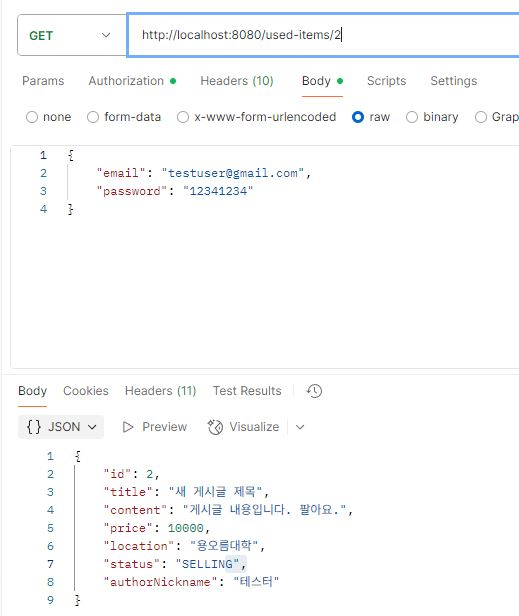
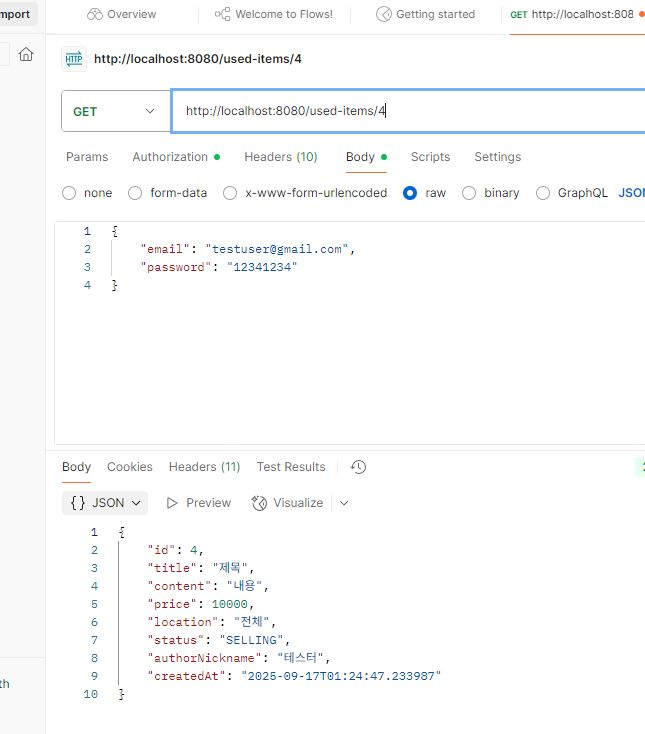
분실물추가

diff --git a/src/main/java/yongin/Yongnuri/_Campus/servise/LostItemService.java b/src/main/java/yongin/Yongnuri/_Campus/servise/LostItemService.java
@@ -1,0 +1,129 @@
+package yongin.Yongnuri._Campus.servise;
+
+import java.util.List;
+import java.util.stream.Collectors;
+import java.util.stream.Stream;
+
+import org.springframework.data.domain.Sort;
+import org.springframework.security.access.AccessDeniedException;
+import org.springframework.stereotype.Service;
+import org.springframework.transaction.annotation.Transactional;
+
+import jakarta.persistence.EntityNotFoundException;
+import lombok.RequiredArgsConstructor;
+import yongin.Yongnuri._Campus.domain.Image;
+import yongin.Yongnuri._Campus.domain.LostItem;
+import yongin.Yongnuri._Campus.domain.User;
+import yongin.Yongnuri._Campus.dto.lostitem.LostItemCreateRequestDto;
+import yongin.Yongnuri._Campus.dto.lostitem.LostItemResponseDto;
+import yongin.Yongnuri._Campus.dto.lostitem.LostItemUpdateRequestDto;
+import yongin.Yongnuri._Campus.repository.ImageRepository;
+import yongin.Yongnuri._Campus.repository.LostItemRepository;
+import yongin.Yongnuri._Campus.repository.UserRepository;
+
+@Service
+@RequiredArgsConstructor
+public class LostItemService {
+
+    private final LostItemRepository lostItemRepository;
+    private final BlockService blockService; 
+    private final UserRepository userRepository;
+    private final ImageRepository imageRepository;
+
+    private User getUserByEmail(String email) {
+        return userRepository.findByEmail(email)
+                .orElseThrow(() -> new EntityNotFoundException("사용자 정보를 찾을 수 없습니다."));
+    }
+
+    /*
+     분실물 게시글 목록 조회 
+    */
+    public List<LostItemResponseDto> getLostItems(String email, String type) {
+        Long currentUserId = getUserByEmail(email).getId();
+        List<Long> blockedUserIds = blockService.getBlockedUserIds(currentUserId);
+        List<LostItem> allItems = lostItemRepository.findAll(Sort.by(Sort.Direction.DESC, "id")); 
+        Stream<LostItem> stream = allItems.stream()
+                .filter(item -> !blockedUserIds.contains(item.getUser().getId()));
+        if (!"전체".equals(type)) {
+            stream = stream.filter(item -> type.equals(item.getLocation()));
+        }
+
+        return stream
+                .map(LostItemResponseDto::new)
+                .collect(Collectors.toList());
+    }
+    //상세조회
+    public LostItemResponseDto getLostItemDetail(String email, Long postId) {
+        Long currentUserId = getUserByEmail(email).getId();
+        List<Long> blockedUserIds = blockService.getBlockedUserIds(currentUserId);
+        LostItem item = lostItemRepository.findById(postId)
+                .orElseThrow(() -> new EntityNotFoundException("404: 게시글 없음"));
+        Long authorId = item.getUser().getId();
+        if (blockedUserIds.contains(authorId)) {
+            throw new EntityNotFoundException("404: 게시글 없음 (차단됨)");
+        }
+        return new LostItemResponseDto(item);
+    }
+    /* 
+     분실물 게시글 작성
+     */
+    @Transactional
+    public Long createLostItem(String email, LostItemCreateRequestDto requestDto) {
+        User currentUser = getUserByEmail(email);
+        LostItem newItem = requestDto.toEntity(currentUser);
+        LostItem savedItem = lostItemRepository.save(newItem);
+        Long newPostId = savedItem.getId();
+
+        List<String> imageUrls = requestDto.getImageUrls();
+        if (imageUrls != null && !imageUrls.isEmpty()) {
+            int sequence = 1;
+            for (String url : imageUrls) {
+                Image image = Image.builder()
+                        .type("LOST_ITEM") 
+                        .typeId(newPostId)
+                        .imageUrl(url)
+                        .sequence(sequence++)
+                        .build();
+                imageRepository.save(image);
+            }
+        }
+        return newPostId;
+    }
+     /*
+     분실물 게시글 수정
+     */
+    @Transactional
+    public Long updateLostItem(String email, Long postId, LostItemUpdateRequestDto requestDto) {
+    
+        User currentUser = getUserByEmail(email);
+        LostItem item = lostItemRepository.findById(postId)
+                .orElseThrow(() -> new EntityNotFoundException("404: 게시글 없음"));
+
+        if (!item.getUser().getId().equals(currentUser.getId())) {
+            throw new AccessDeniedException("403: 이 게시글을 수정할 권한이 없습니다.");
+        }
+        if (requestDto.getImageUrls() != null) {
+            imageRepository.deleteAllByTypeAndTypeId("LOST_ITEM", postId);
+
+            List<String> imageUrls = requestDto.getImageUrls();
+            int sequence = 1;
+            for (String url : imageUrls) {
+                Image image = Image.builder()
+                        .type("LOST_ITEM")
+                        .typeId(postId)
+                        .imageUrl(url)
+                        .sequence(sequence++)
+                        .build();
+                imageRepository.save(image);
+            }
+        }
+
+        if (requestDto.getTitle() != null) item.setTitle(requestDto.getTitle());
+        if (requestDto.getContent() != null) item.setContent(requestDto.getContent());
+        if (requestDto.getLocation() != null) item.setLocation(requestDto.getLocation());
+        if (requestDto.getPurpose() != null) item.setPurpose(LostItem.ItemPurpose.valueOf(requestDto.getPurpose().toUpperCase()));
+        if (requestDto.getStatus() != null) item.setStatus(LostItem.ItemStatus.valueOf(requestDto.getStatus().toUpperCase()));
+        
+        return item.getId();
+    }
+}

diff --git a/src/main/java/yongin/Yongnuri/_Campus/controller/LostItemController.java b/src/main/java/yongin/Yongnuri/_Campus/controller/LostItemController.java
@@ -1,0 +1,77 @@
+package yongin.Yongnuri._Campus.controller;
+
+import lombok.RequiredArgsConstructor;
+import org.springframework.http.ResponseEntity;
+import org.springframework.security.core.annotation.AuthenticationPrincipal;
+
+import yongin.Yongnuri._Campus.dto.lostitem.LostItemResponseDto;
+import yongin.Yongnuri._Campus.servise.LostItemService;
+import java.util.List;
+import java.util.Map; 
+import jakarta.validation.Valid; 
+import org.springframework.web.bind.annotation.*; 
+import yongin.Yongnuri._Campus.dto.lostitem.LostItemCreateRequestDto;
+import yongin.Yongnuri._Campus.dto.lostitem.LostItemUpdateRequestDto; 
+
+
+@RestController
+@RequiredArgsConstructor
+@RequestMapping("/lost-items")
+public class LostItemController {
+
+    private final LostItemService lostItemService;
+
+    /*
+     GET /lost-items (분실물 목록 조회)
+    */
+    @GetMapping
+    public ResponseEntity<?> getLostItems(
+            @RequestParam(name = "type", defaultValue = "전체") String type,
+            @AuthenticationPrincipal String email
+    ) {
+        List<LostItemResponseDto> items = lostItemService.getLostItems(email, type);
+        return ResponseEntity.ok(items);
+    }
+    /*
+     * GET /lost-items/{postId} (분실물 상세 조회)
+     */
+    @GetMapping("/{postId}")
+    public ResponseEntity<?> getLostItemDetail(
+            @PathVariable Long postId,
+            @AuthenticationPrincipal String email
+    ) {
+        LostItemResponseDto item = lostItemService.getLostItemDetail(email, postId);
+        return ResponseEntity.ok(item); 
+    }
+    /*
+      POST /lost-items (분실물 게시글 작성)
+     */
+    @PostMapping
+    public ResponseEntity<?> createLostItem(
+            @AuthenticationPrincipal String email,
+            @Valid @RequestBody LostItemCreateRequestDto requestDto
+    ) {
+        Long newPostId = lostItemService.createLostItem(email, requestDto);
+        return ResponseEntity.ok(Map.of(
+            "message", "게시글 작성 성공",
+            "postId", newPostId
+        ));
+    }
+    /*
+      PATCH /lost-items/{postId} (분실물 게시글 수정)
+     */
+    @PatchMapping("/{postId}")
+    public ResponseEntity<?> updateLostItem(
+            @PathVariable Long postId,
+            @AuthenticationPrincipal String email,
+            @RequestBody LostItemUpdateRequestDto requestDto
+    ) {
+        Long updatedPostId = lostItemService.updateLostItem(email, postId, requestDto);
+
+
+        return ResponseEntity.ok(Map.of(
+            "message", "게시글 수정 성공",
+            "postId", updatedPostId
+        ));
+    }
+}

diff --git a/src/main/java/yongin/Yongnuri/_Campus/domain/LostItem.java b/src/main/java/yongin/Yongnuri/_Campus/domain/LostItem.java
@@ -1,0 +1,56 @@
+package yongin.Yongnuri._Campus.domain;
+import jakarta.persistence.Column;
+import jakarta.persistence.Entity;
+import jakarta.persistence.EnumType;
+import jakarta.persistence.Enumerated;
+import jakarta.persistence.FetchType;
+import jakarta.persistence.GeneratedValue;
+import jakarta.persistence.GenerationType;
+import jakarta.persistence.Id;
+import jakarta.persistence.JoinColumn;
+import jakarta.persistence.ManyToOne;
+import lombok.AllArgsConstructor;
+import lombok.Builder;
+import lombok.Getter;
+import lombok.NoArgsConstructor;
+import lombok.Setter;
+
+@Entity
+@Getter
+@Setter // 간단한 예시를 위해 Setter 사용
+@Builder 
+@NoArgsConstructor 
+@AllArgsConstructor 
+public class LostItem {
+
+    @Id
+    @GeneratedValue(strategy = GenerationType.IDENTITY)
+    private Long id;
+
+    @ManyToOne(fetch = FetchType.LAZY)
+    @JoinColumn(name = "user_id")
+    private User user; // 게시자
+
+    @Enumerated(EnumType.STRING)
+    private ItemPurpose purpose; // 게시 목적 (LOST, FOUND)
+
+    @Enumerated(EnumType.STRING)
+    private ItemStatus status; // 처리 상태 (REPORTED, RETURNED)
+
+    private String title;
+
+    @Column(columnDefinition = "TEXT")
+    private String content;
+
+    private String location;
+
+    // created_at, updated_at 등 타임스탬프 필드 (BaseEntity 등으로 분리하는 것이 좋음)
+
+    public enum ItemPurpose {
+        LOST, FOUND
+    }
+
+    public enum ItemStatus {
+        REPORTED, RETURNED
+    }
+}

diff --git a/src/main/java/yongin/Yongnuri/_Campus/dto/lostitem/LostItemCreateRequestDto.java b/src/main/java/yongin/Yongnuri/_Campus/dto/lostitem/LostItemCreateRequestDto.java
@@ -1,0 +1,41 @@
+package yongin.Yongnuri._Campus.dto.lostitem;
+
+import jakarta.validation.constraints.NotBlank;
+import jakarta.validation.constraints.NotNull;
+import lombok.Getter;
+import yongin.Yongnuri._Campus.domain.LostItem;
+import yongin.Yongnuri._Campus.domain.User;
+import java.util.List;
+
+@Getter
+public class LostItemCreateRequestDto {
+
+    @NotBlank(message = "제목은 필수입니다.")
+    private String title;
+
+    @NotBlank(message = "게시 목적(분실/습득)은 필수입니다.")
+    private String purpose; 
+
+    @NotBlank(message = "내용은 필수입니다.")
+    private String content;
+
+    @NotBlank(message = "게시글 상태는 필수입니다.")
+    private String status; 
+
+    @NotBlank(message = "장소는 필수입니다.")
+    private String location;
+
+  
+    private List<String> imageUrls;
+
+    public LostItem toEntity(User user) {
+        return LostItem.builder()
+                .user(user) 
+                .title(this.title)
+                .content(this.content)
+                .location(this.location)
+                .purpose(LostItem.ItemPurpose.valueOf(this.purpose.toUpperCase()))
+                .status(LostItem.ItemStatus.valueOf(this.status.toUpperCase()))
+                .build();
+    }
+}

diff --git a/src/main/java/yongin/Yongnuri/_Campus/dto/useditem/UsedItemResponseDto.java b/src/main/java/yongin/Yongnuri/_Campus/dto/useditem/UsedItemResponseDto.java
@@ -1,5 +1,7 @@
 package yongin.Yongnuri._Campus.dto.useditem;
 
+import java.time.LocalDateTime;
+
 import lombok.Getter;
 import yongin.Yongnuri._Campus.domain.UsedItem;
 import yongin.Yongnuri._Campus.domain.User;
@@ -14,6 +16,7 @@ public class UsedItemResponseDto {
     private String location;
     private String status;
     private String authorNickname; 
+    private final LocalDateTime createdAt;
 
     // 1. 리스트 조회용 생성자 
     // (중고거래 목록 조회 사용)
@@ -25,6 +28,7 @@ public class UsedItemResponseDto {
         this.status = item.getStatus();
         this.content = null; 
         this.authorNickname = null; 
+        this.createdAt = item.getCreatedAt();
     }
 
     // 2. 상세 조회용 생성자 
@@ -37,5 +41,6 @@ public class UsedItemResponseDto {
         this.location = item.getLocation();
         this.status = item.getStatus();
         this.authorNickname = (author != null) ? author.getNickName() : "(알 수 없음)";
+        this.createdAt = item.getCreatedAt(); //
     }
 }

diff --git a/src/main/java/yongin/Yongnuri/_Campus/dto/lostitem/LostItemResponseDto.java b/src/main/java/yongin/Yongnuri/_Campus/dto/lostitem/LostItemResponseDto.java
@@ -1,0 +1,34 @@
+package yongin.Yongnuri._Campus.dto.lostitem;
+
+import java.time.LocalDateTime;
+
+import lombok.Getter;
+import yongin.Yongnuri._Campus.domain.LostItem;
+
+@Getter
+public class LostItemResponseDto {
+    private final Long id;
+    private final String title;
+    private final String location;
+    private final String purpose; 
+    private final String status;  
+    private final String content;
+    private final Boolean isImages;
+    private final LocalDateTime createdAt;
+    private final String authorNickname; 
+
+    
+    public LostItemResponseDto(LostItem item) {
+        this.id = item.getId();
+        this.title = item.getTitle();
+        this.content = item.getContent(); 
+        this.location = item.getLocation();
+        this.purpose = item.getPurpose().name(); 
+        this.status = item.getStatus().name();
+        
+        // 임시처리
+        this.isImages = false; 
+        this.createdAt = null; 
+        this.authorNickname = item.getUser().getNickName();
+    }
+}

diff --git a/src/main/java/yongin/Yongnuri/_Campus/repository/LostItemRepository.java b/src/main/java/yongin/Yongnuri/_Campus/repository/LostItemRepository.java
@@ -1,0 +1,8 @@
+package yongin.Yongnuri._Campus.repository;
+
+import org.springframework.data.jpa.repository.JpaRepository;
+import org.springframework.data.jpa.repository.JpaSpecificationExecutor;
+import yongin.Yongnuri._Campus.domain.LostItem;
+
+public interface LostItemRepository extends JpaRepository<LostItem, Long>, JpaSpecificationExecutor<LostItem> {
+}

diff --git a/src/main/java/yongin/Yongnuri/_Campus/dto/lostitem/LostItemUpdateRequestDto.java b/src/main/java/yongin/Yongnuri/_Campus/dto/lostitem/LostItemUpdateRequestDto.java
@@ -1,0 +1,14 @@
+package yongin.Yongnuri._Campus.dto.lostitem;
+
+import lombok.Getter;
+import java.util.List;
+
+@Getter
+public class LostItemUpdateRequestDto {
+    private String title;
+    private String purpose; 
+    private String content;
+    private String status; 
+    private String location;
+    private List<String> imageUrls; 
+}
